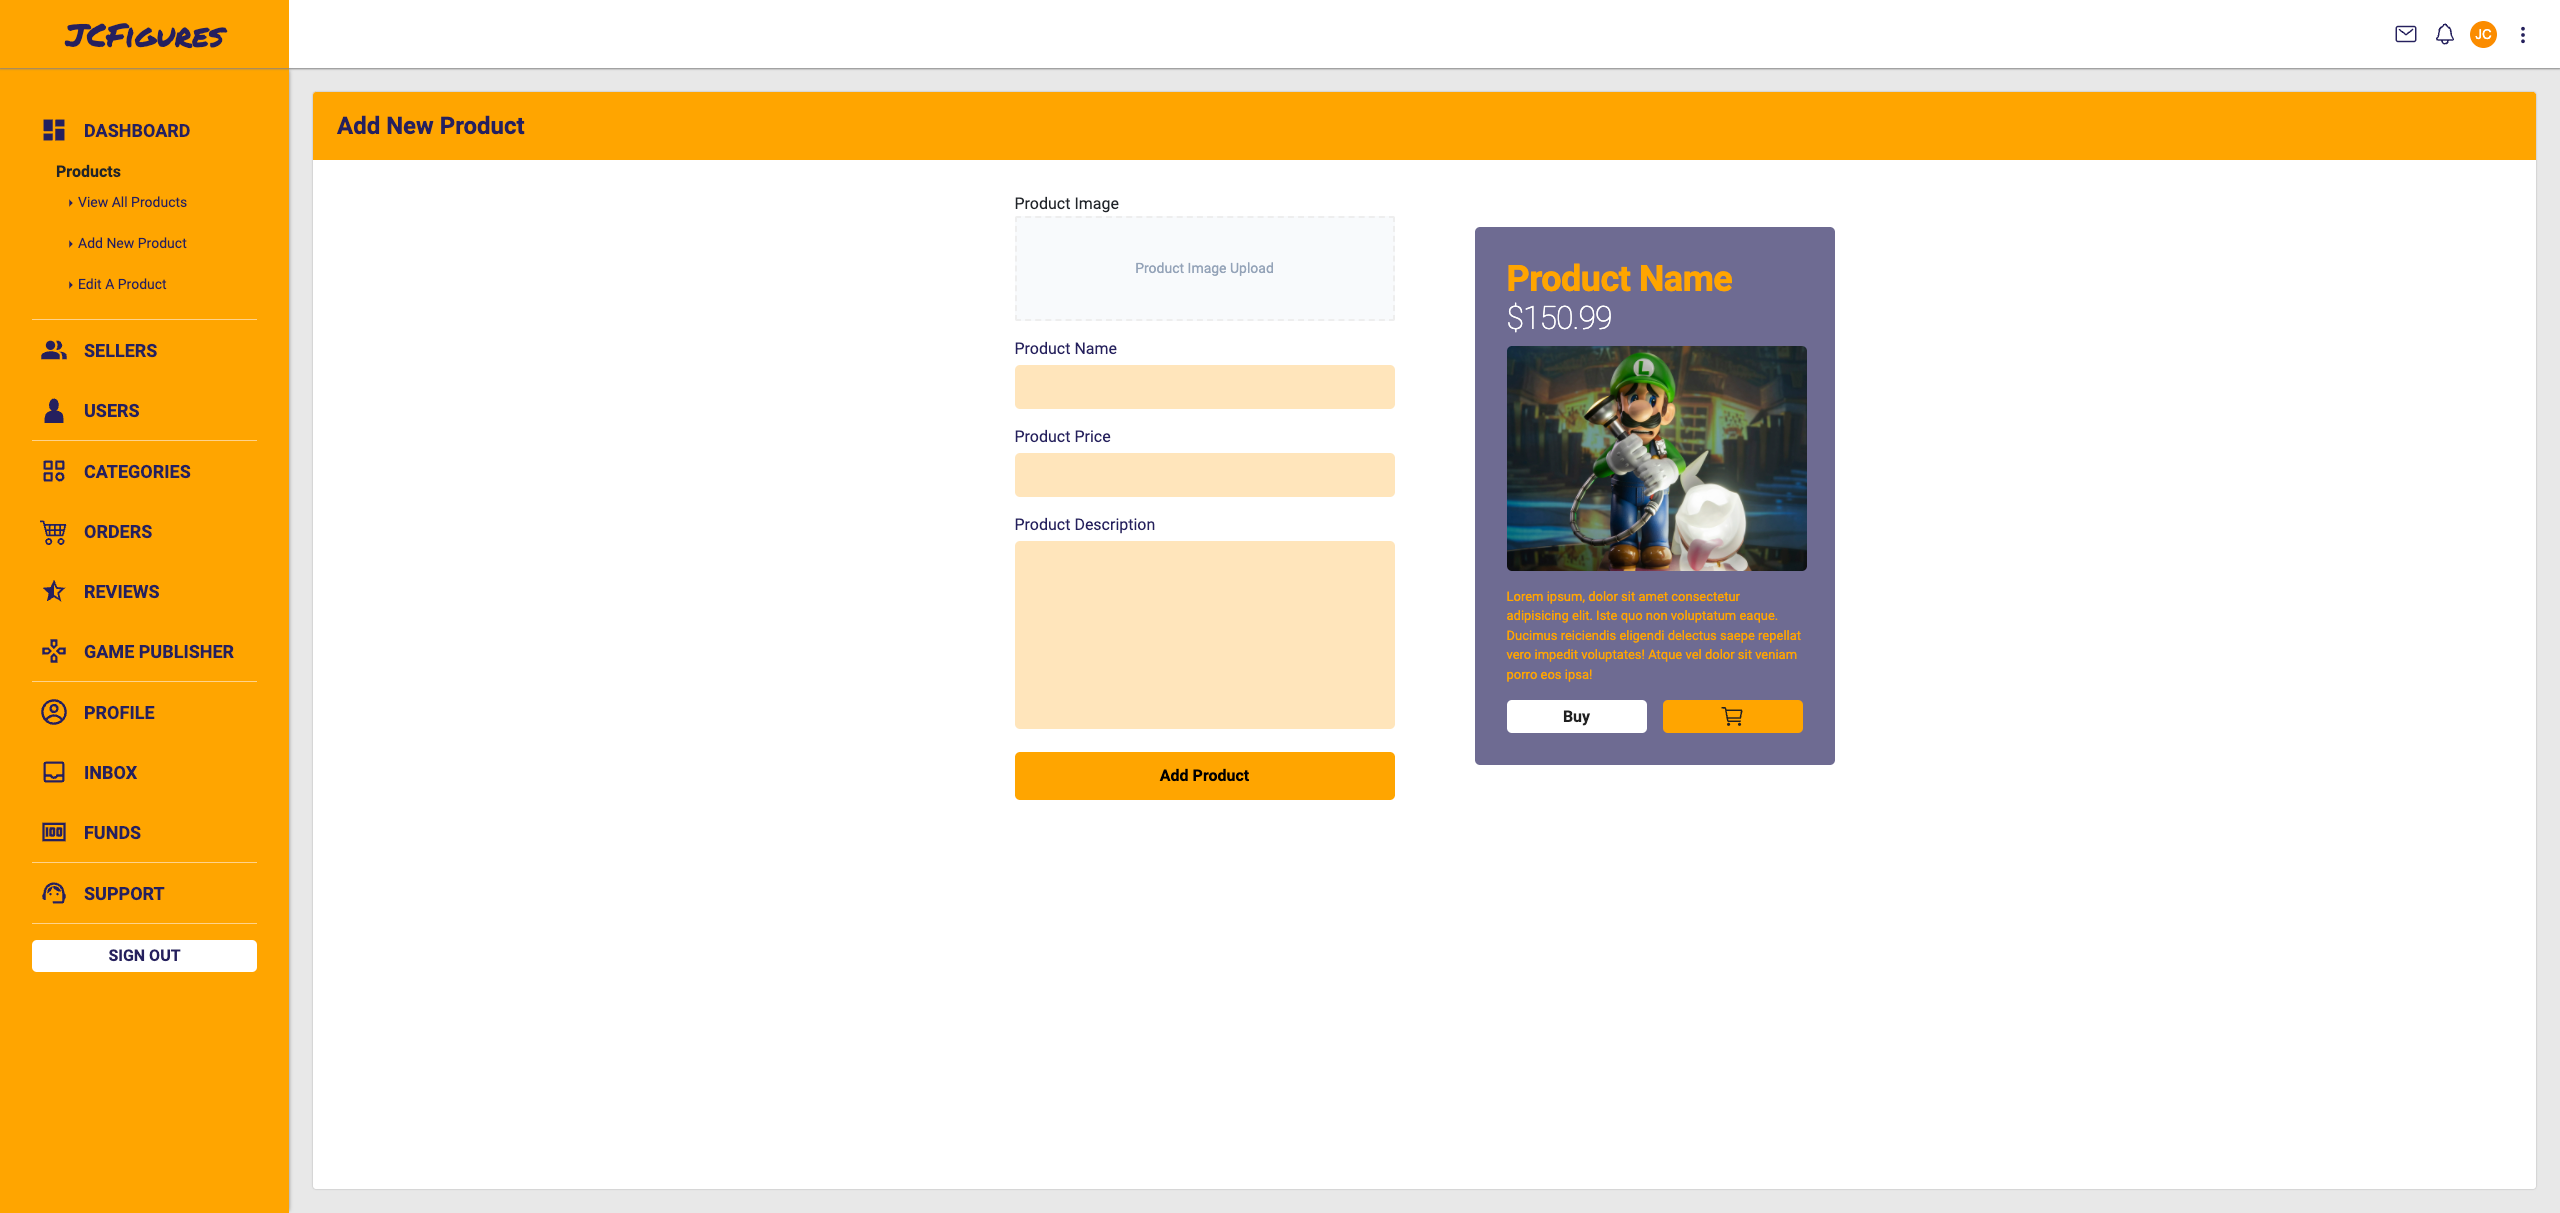
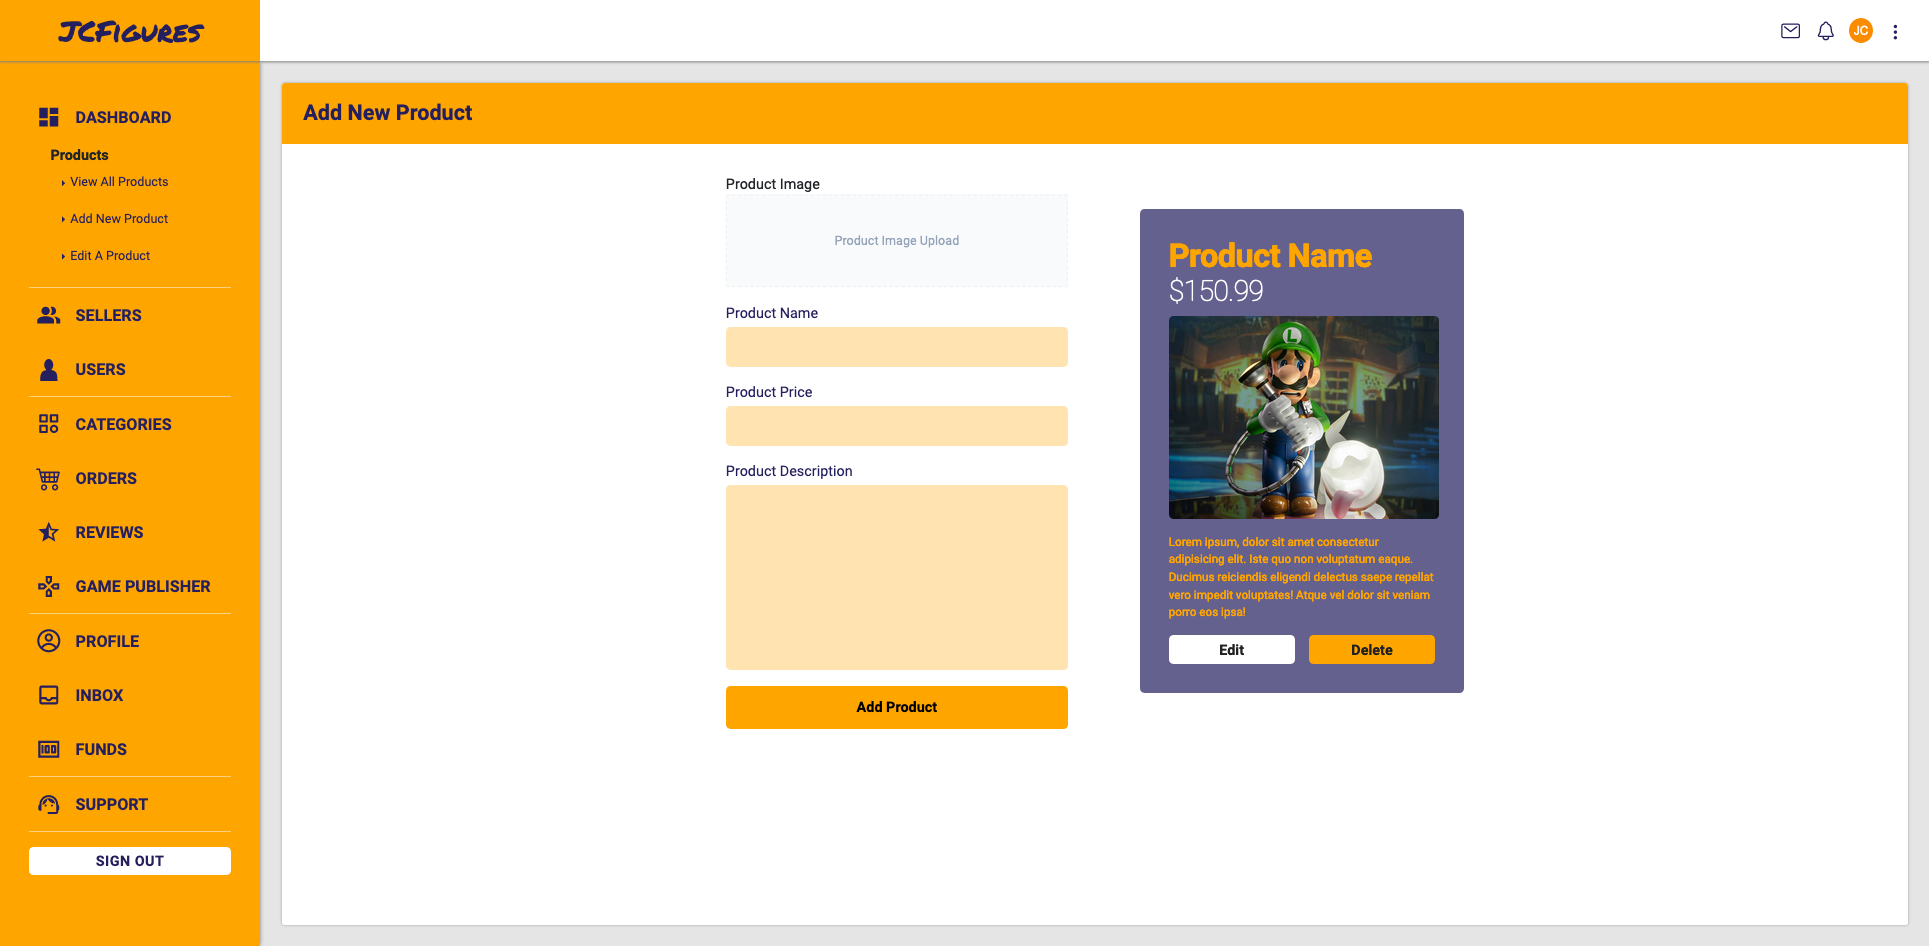
Added edit/delete instead of buy options

Changed region(s): [[0.0, 0.0, 1.0, 1.0], [0.3733, 0.1839, 0.7776, 0.797]]

diff --git a/src/components/products/ProductCard/ProductCard.js b/src/components/products/ProductCard/ProductCard.js
@@ -1,10 +1,7 @@
 import React from "react";
 
 // ui
-import { AddToCartBtn, BuyProductBtn } from "ui/buttons";
-
-// react-icons
-import * as IoIcons from "react-icons/io5";
+import { DeleteBtn, EditProductBtn } from "ui/buttons";
 
 import {
     ProductCardStyles,
@@ -13,7 +10,7 @@ import {
     ProductName,
     ProductPrice,
     ProductDescription,
-    BuySection,
+    EditorSection,
 } from "./styles";
 
 function ProductCard({ children, product, ...props }) {
@@ -29,18 +26,16 @@ function ProductCard({ children, product, ...props }) {
                 <ProductImage>
                     <img
                         src={imageUrl}
-                        alt="placeholder"
+                        alt={productName}
                         width="320"
                         height="184"
                     />
                 </ProductImage>
                 <ProductDescription>{productDescription}</ProductDescription>
-                <BuySection>
-                    <BuyProductBtn>Buy</BuyProductBtn>
-                    <AddToCartBtn>
-                        <IoIcons.IoCartOutline size={25} />
-                    </AddToCartBtn>
-                </BuySection>
+                <EditorSection>
+                    <EditProductBtn>Edit</EditProductBtn>
+                    <DeleteBtn>Delete</DeleteBtn>
+                </EditorSection>
             </ProductView>
         </ProductCardStyles>
     );

diff --git a/src/components/panels/AllProductPanel.js b/src/components/panels/AllProductPanel.js
@@ -1,10 +1,24 @@
 import React from "react";
 
+// hook get
 import { useGetProducts } from "hooks/useGetProduct";
 
+// react icon
+import * as FaIcons from "react-icons/fa";
+
 // styles
-import { PanelStyles, PanelBody, PanelHeader, PanelControl } from "./styles";
+import {
+    PanelStyles,
+    PanelBody,
+    PanelHeader,
+    PanelControl,
+    NoData,
+    NoDataMessage,
+} from "./styles";
 import { ProductCard } from "components/products/ProductCard";
+
+// variable color
+import { alternateThemeColor } from "styles/variables";
 
 function AllProductPanel({ title, ...props }) {
     const productData = useGetProducts();
@@ -25,7 +39,15 @@ function AllProductPanel({ title, ...props }) {
                                 />
                             ))
                         ) : (
-                            <p>no data loaded</p>
+                            <NoData>
+                                <FaIcons.FaRegSadTear
+                                    color={alternateThemeColor}
+                                    size="12rem"
+                                />
+                                <NoDataMessage>
+                                    No product available.
+                                </NoDataMessage>
+                            </NoData>
                         )}
                     </PanelControl>
                 </PanelBody>

diff --git a/src/components/products/ProductPreview/ProductPreview.js b/src/components/products/ProductPreview/ProductPreview.js
@@ -1,10 +1,7 @@
 import React from "react";
 
 // ui
-import { AddToCartBtn, BuyProductBtn } from "ui/buttons";
-
-// react-icons
-import * as IoIcons from "react-icons/io5";
+import { DeleteBtn, EditProductBtn } from "ui/buttons";
 
 // styles
 import {
@@ -13,7 +10,7 @@ import {
     ProductName,
     ProductPrice,
     ProductDescription,
-    BuySection,
+    EditorSection,
 } from "./styles";
 
 function ProductPreview({
@@ -31,18 +28,16 @@ function ProductPreview({
             <ProductImage>
                 <img
                     src={productImage.previewImage}
-                    alt="placeholder"
+                    alt={productName}
                     width="320"
                     heigt="184"
                 />
             </ProductImage>
             <ProductDescription>{productDescription}</ProductDescription>
-            <BuySection>
-                <BuyProductBtn>Buy</BuyProductBtn>
-                <AddToCartBtn>
-                    <IoIcons.IoCartOutline size={25} />
-                </AddToCartBtn>
-            </BuySection>
+            <EditorSection>
+                <EditProductBtn>Edit</EditProductBtn>
+                <DeleteBtn>Delete</DeleteBtn>
+            </EditorSection>
         </ProductPreviewStyles>
     );
 }

diff --git a/src/ui/buttons/index.js b/src/ui/buttons/index.js
@@ -2,7 +2,6 @@ import styled from "styled-components";
 
 const {
     lightColor,
-    buttonHover,
     alternateThemeColor,
     darkColor,
     themeColor,
@@ -30,7 +29,7 @@ const LogInButton = styled(Button)`
     display: block;
     width: 100%;
     text-transform: uppercase;
-    letter-spacing: 0ch.5px;
+    letter-spacing: 0.5px;
     transition: all 0.2s ease;
     &:hover {
         background: ${alternateThemeColor};
@@ -54,7 +53,7 @@ const ButtonAdd = styled(Button)`
     }
 `;
 
-const BuyProductBtn = styled(Button)`
+const EditProductBtn = styled(Button)`
     background-color: ${lightColor};
     color: ${darkColor};
     width: 100%;
@@ -65,7 +64,7 @@ const BuyProductBtn = styled(Button)`
     }
 `;
 
-const AddToCartBtn = styled(Button)`
+const DeleteBtn = styled(Button)`
     background-color: ${themeColor};
     color: ${darkColor};
     width: 100%;
@@ -81,6 +80,6 @@ export {
     IconButton,
     LogInButton,
     ButtonAdd,
-    BuyProductBtn,
-    AddToCartBtn,
+    EditProductBtn,
+    DeleteBtn,
 };

diff --git a/src/components/panels/styles.js b/src/components/panels/styles.js
@@ -1,5 +1,5 @@
 import styled from "styled-components";
-import { alternateThemeColor, themeColor, lightColor } from "styles/variables";
+import { alternateThemeColor, themeColor } from "styles/variables";
 
 const PanelStyles = styled.section`
     flex: 1;
@@ -28,7 +28,31 @@ const PanelBody = styled.div`
 
 const PanelControl = styled.div`
     display: flex;
-    gap: 2rem;
+    justify-content: space-between;
+    flex-wrap: wrap;
 `;
 
-export { PanelStyles, PanelBody, PanelHeader, PanelControl };
+const NoData = styled.div`
+    display: flex;
+    justify-content: center;
+    align-items: center;
+    margin-top: 12rem;
+    width: 100%;
+`;
+
+const NoDataMessage = styled.div`
+    font-size: 1.75rem;
+    font-weight: 600;
+    color: ${alternateThemeColor};
+    margin-top: 1rem;
+    margin-left: 1rem;
+`;
+
+export {
+    PanelStyles,
+    PanelBody,
+    PanelHeader,
+    PanelControl,
+    NoData,
+    NoDataMessage,
+};

diff --git a/src/components/products/ProductCard/styles.js b/src/components/products/ProductCard/styles.js
@@ -1,7 +1,9 @@
 import styled from "styled-components";
 import { themeColor, lightColor } from "styles/variables";
 
-const ProductCardStyles = styled.div``;
+const ProductCardStyles = styled.div`
+    margin-bottom: 2rem;
+`;
 
 const ProductView = styled.div`
     padding: 2rem;
@@ -50,7 +52,7 @@ const ProductDescription = styled.p`
     text-overflow: ellipsis;
 `;
 
-const BuySection = styled.div`
+const EditorSection = styled.div`
     display: flex;
     gap: 1rem;
 `;
@@ -62,5 +64,5 @@ export {
     ProductName,
     ProductPrice,
     ProductDescription,
-    BuySection,
+    EditorSection,
 };

diff --git a/src/components/products/ProductPreview/styles.js b/src/components/products/ProductPreview/styles.js
@@ -46,7 +46,7 @@ const ProductDescription = styled.p`
     word-wrap: break-word;
 `;
 
-const BuySection = styled.div`
+const EditorSection = styled.div`
     display: flex;
     gap: 1rem;
 `;
@@ -57,5 +57,5 @@ export {
     ProductName,
     ProductPrice,
     ProductDescription,
-    BuySection,
+    EditorSection,
 };
